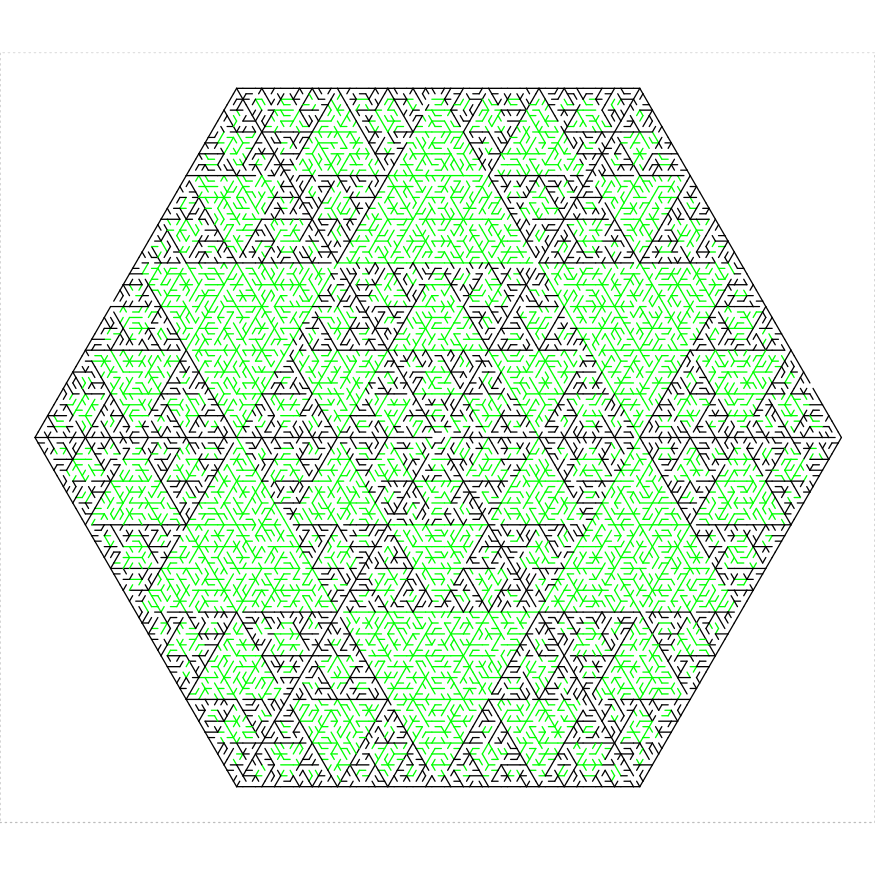
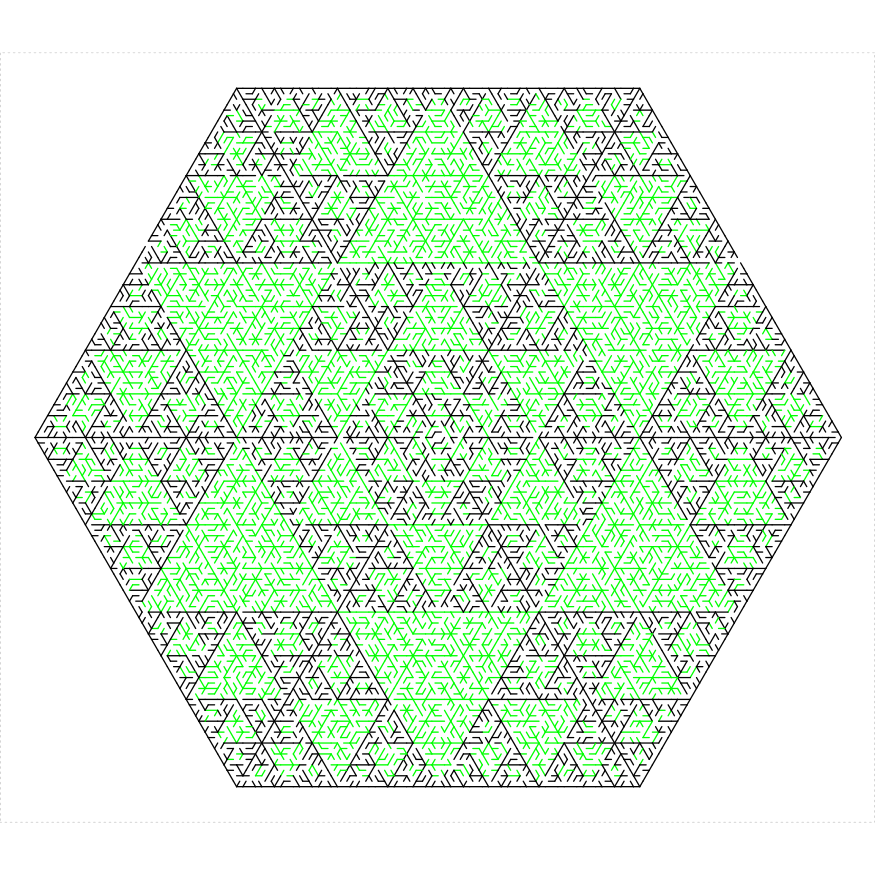
fix widths in doc and prepare to submit
fixing changelog and readme

Changed region(s): [[0.0617, 0.0926, 0.9566, 0.8949]]

diff --git a/README.md b/README.md
@@ -709,14 +709,6 @@ library(mazealls)
 turtle_init(1250, 1100, mode = "clip")
 turtle_up()
 turtle_hide()
-```
-
-<div class="figure">
-<img src="man/figures/sierpinski-hexagon-1.png" alt="plot of chunk sierpinski-hexagon" width="700px" height="700px" />
-<p class="caption">plot of chunk sierpinski-hexagon</p>
-</div>
-
-``` r
 turtle_do({
     turtle_setpos(50, 550)
     turtle_setangle(30)
@@ -727,9 +719,10 @@ turtle_do({
 })
 ```
 
-```
-## Error in sierpinski_hexagon_maze(depth = 6, unit_len = 9, boundary_lines = TRUE, : could not find function "sierpinski_hexagon_maze"
-```
+<div class="figure">
+<img src="man/figures/sierpinski-hexagon-1.png" alt="plot of chunk sierpinski-hexagon" width="700px" height="700px" />
+<p class="caption">plot of chunk sierpinski-hexagon</p>
+</div>
 
 
 ## Hexaflake 
